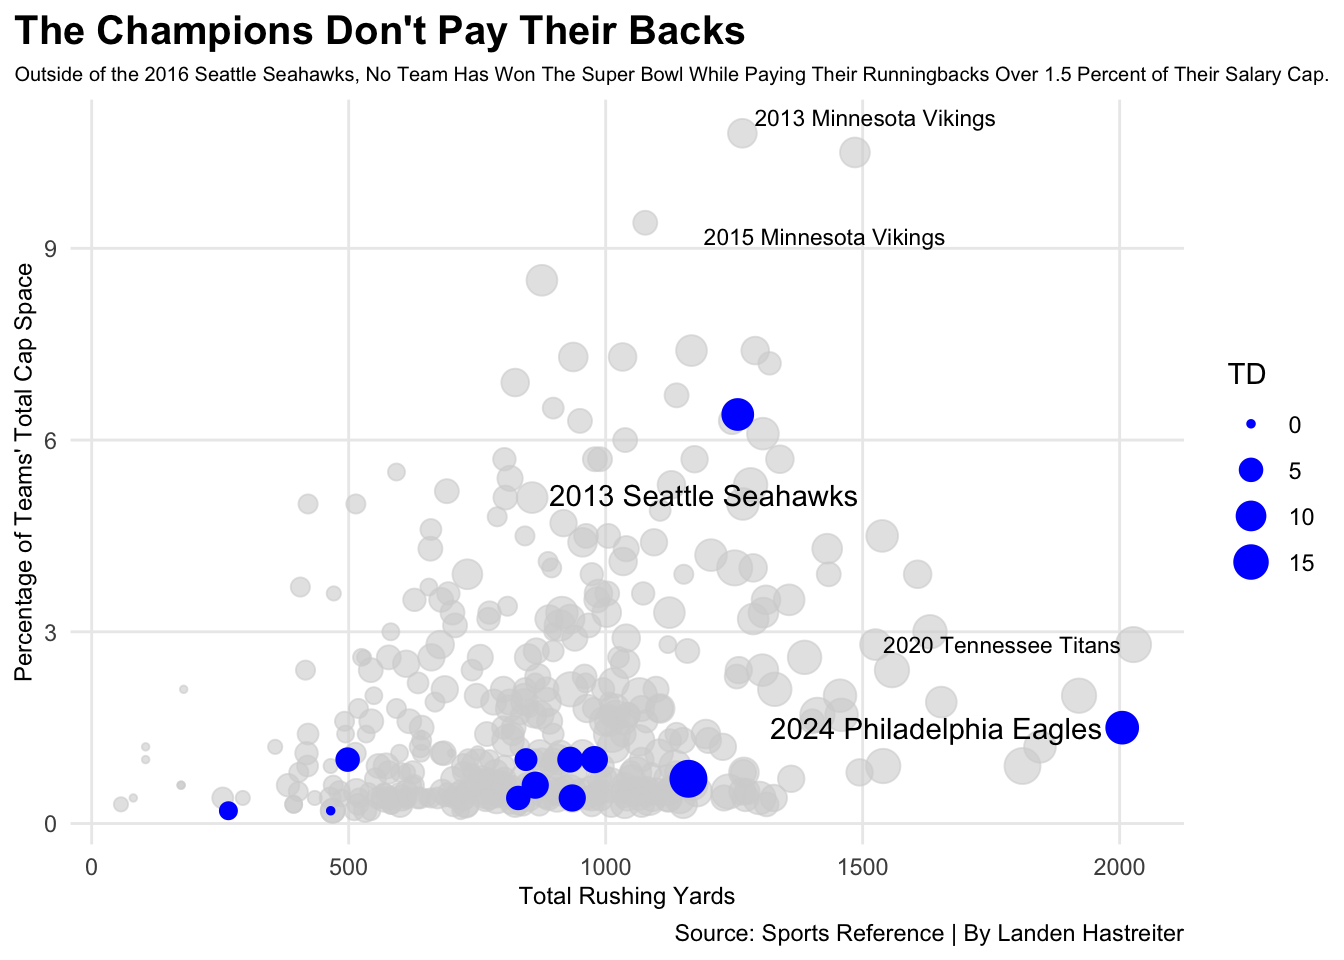
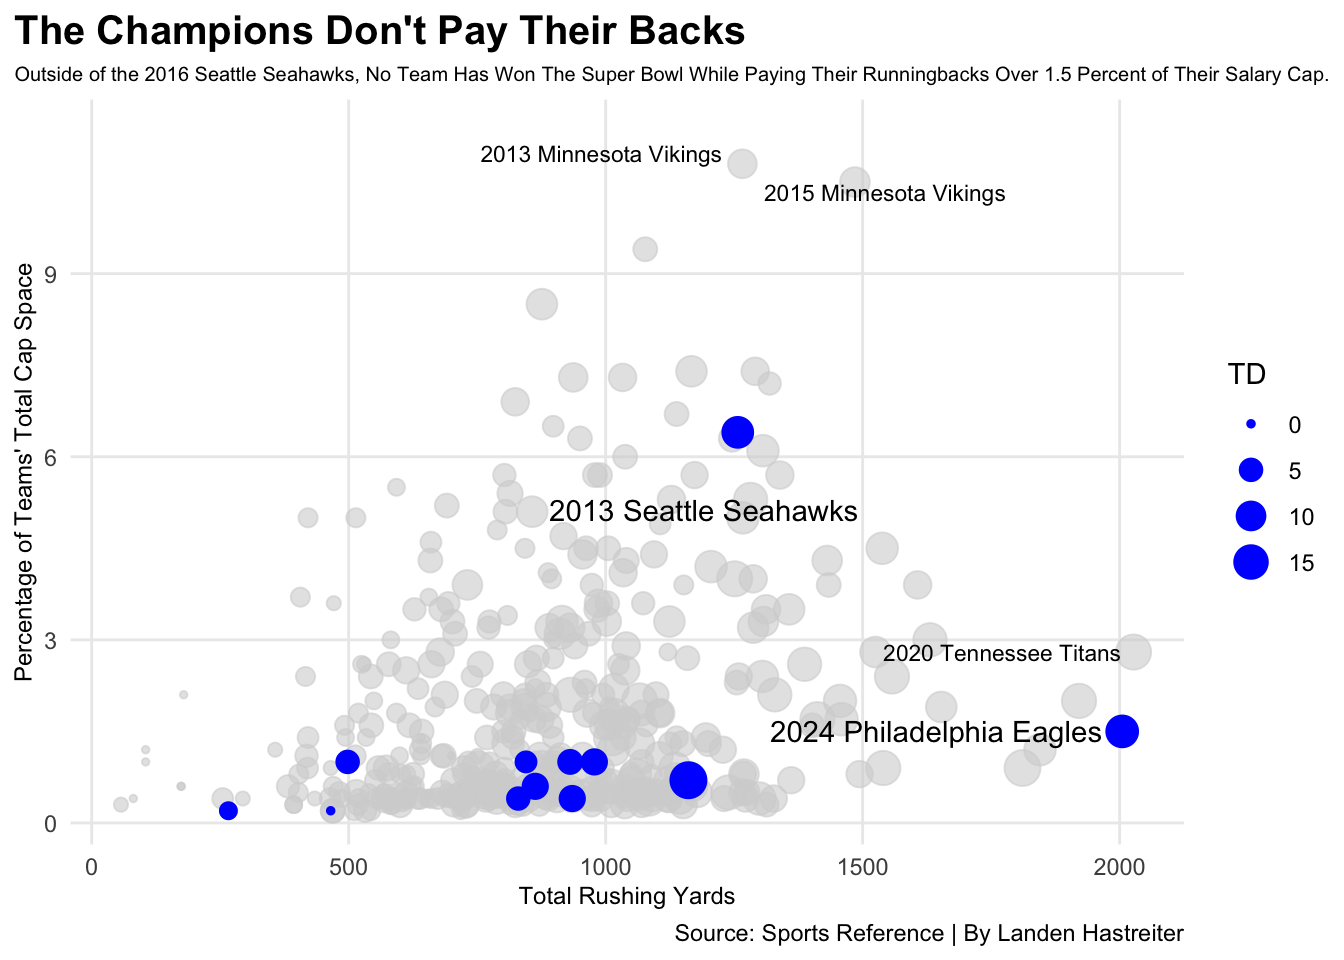
Major Assignment 2 (7)

diff --git a/posts/nfl-runningbacks/index.html b/posts/nfl-runningbacks/index.html
@@ -409,8 +409,8 @@ pre > code.sourceCode > span > a:first-child::before { text-decoration: underlin
 <span id="cb1-38"><a href="#cb1-38" aria-hidden="true" tabindex="-1"></a>  <span class="fu">geom_text_repel</span>(<span class="at">data=</span>thisyear, <span class="fu">aes</span>(<span class="at">x=</span>Yds<span class="dv">-15</span>, <span class="at">y=</span>Cap, <span class="at">label=</span>TeamYear)) <span class="sc">+</span> </span>
 <span id="cb1-39"><a href="#cb1-39" aria-hidden="true" tabindex="-1"></a>  <span class="fu">geom_text_repel</span>(<span class="at">data=</span>beast, <span class="fu">aes</span>(<span class="at">x=</span>Yds, <span class="at">y=</span><span class="fl">5.5</span>, <span class="at">label=</span>TeamYear)) <span class="sc">+</span> </span>
 <span id="cb1-40"><a href="#cb1-40" aria-hidden="true" tabindex="-1"></a>  <span class="fu">geom_text_repel</span>(<span class="at">data=</span>king, <span class="fu">aes</span>(<span class="at">x=</span>Yds, <span class="at">y=</span>Cap, <span class="at">label=</span>TeamYear), <span class="at">size=</span><span class="dv">3</span>) <span class="sc">+</span></span>
-<span id="cb1-41"><a href="#cb1-41" aria-hidden="true" tabindex="-1"></a>  <span class="fu">geom_text_repel</span>(<span class="at">data=</span>minny, <span class="fu">aes</span>(<span class="at">x=</span>Yds, <span class="at">y=</span>Cap<span class="dv">-1</span>, <span class="at">label=</span>TeamYear), <span class="at">size=</span><span class="dv">3</span>) <span class="sc">+</span></span>
-<span id="cb1-42"><a href="#cb1-42" aria-hidden="true" tabindex="-1"></a>  <span class="fu">geom_text_repel</span>(<span class="at">data=</span>vikings, <span class="fu">aes</span>(<span class="at">x=</span>Yds, <span class="at">y=</span>Cap, <span class="at">label=</span>TeamYear), <span class="at">size=</span><span class="dv">3</span>) <span class="sc">+</span></span>
+<span id="cb1-41"><a href="#cb1-41" aria-hidden="true" tabindex="-1"></a>  <span class="fu">geom_text_repel</span>(<span class="at">data=</span>minny, <span class="fu">aes</span>(<span class="at">x=</span>Yds, <span class="at">y=</span><span class="dv">10</span>, <span class="at">label=</span>TeamYear), <span class="at">size=</span><span class="dv">3</span>) <span class="sc">+</span></span>
+<span id="cb1-42"><a href="#cb1-42" aria-hidden="true" tabindex="-1"></a>  <span class="fu">geom_text_repel</span>(<span class="at">data=</span>vikings, <span class="fu">aes</span>(<span class="at">x=</span><span class="dv">1050</span>, <span class="at">y=</span><span class="fl">11.3</span>, <span class="at">label=</span>TeamYear), <span class="at">size=</span><span class="dv">3</span>) <span class="sc">+</span></span>
 <span id="cb1-43"><a href="#cb1-43" aria-hidden="true" tabindex="-1"></a>  <span class="fu">labs</span>(</span>
 <span id="cb1-44"><a href="#cb1-44" aria-hidden="true" tabindex="-1"></a>    <span class="at">x=</span><span class="st">"Total Rushing Yards"</span>, </span>
 <span id="cb1-45"><a href="#cb1-45" aria-hidden="true" tabindex="-1"></a>    <span class="at">y=</span><span class="st">"Percentage of Teams' Total Cap Space"</span>, </span>
@@ -511,23 +511,23 @@ pre > code.sourceCode > span > a:first-child::before { text-decoration: underlin
 <span id="cb2-70"><a href="#cb2-70" aria-hidden="true" tabindex="-1"></a>      <span class="at">rows =</span> TeamYear <span class="sc">==</span> <span class="st">"2024 Arizona Cardinals"</span>))</span></code></pre></div><button title="Copy to Clipboard" class="code-copy-button"><i class="bi"></i></button></div>
 </details>
 <div class="cell-output-display">
-<div id="qzdtnipsnx" style="padding-left:0px;padding-right:0px;padding-top:10px;padding-bottom:10px;overflow-x:auto;overflow-y:auto;width:auto;height:auto;">
-<style>#qzdtnipsnx table {
+<div id="eddnfwyzph" style="padding-left:0px;padding-right:0px;padding-top:10px;padding-bottom:10px;overflow-x:auto;overflow-y:auto;width:auto;height:auto;">
+<style>#eddnfwyzph table {
   font-family: system-ui, 'Segoe UI', Roboto, Helvetica, Arial, sans-serif, 'Apple Color Emoji', 'Segoe UI Emoji', 'Segoe UI Symbol', 'Noto Color Emoji';
   -webkit-font-smoothing: antialiased;
   -moz-osx-font-smoothing: grayscale;
 }
 
-#qzdtnipsnx thead, #qzdtnipsnx tbody, #qzdtnipsnx tfoot, #qzdtnipsnx tr, #qzdtnipsnx td, #qzdtnipsnx th {
+#eddnfwyzph thead, #eddnfwyzph tbody, #eddnfwyzph tfoot, #eddnfwyzph tr, #eddnfwyzph td, #eddnfwyzph th {
   border-style: none;
 }
 
-#qzdtnipsnx p {
+#eddnfwyzph p {
   margin: 0;
   padding: 0;
 }
 
-#qzdtnipsnx .gt_table {
+#eddnfwyzph .gt_table {
   display: table;
   border-collapse: collapse;
   line-height: normal;
@@ -553,12 +553,12 @@ pre > code.sourceCode > span > a:first-child::before { text-decoration: underlin
   border-left-color: #D3D3D3;
 }
 
-#qzdtnipsnx .gt_caption {
+#eddnfwyzph .gt_caption {
   padding-top: 4px;
   padding-bottom: 4px;
 }
 
-#qzdtnipsnx .gt_title {
+#eddnfwyzph .gt_title {
   color: #333333;
   font-size: 125%;
   font-weight: initial;
@@ -570,7 +570,7 @@ pre > code.sourceCode > span > a:first-child::before { text-decoration: underlin
   border-bottom-width: 0;
 }
 
-#qzdtnipsnx .gt_subtitle {
+#eddnfwyzph .gt_subtitle {
   color: #333333;
   font-size: 85%;
   font-weight: initial;
@@ -582,7 +582,7 @@ pre > code.sourceCode > span > a:first-child::before { text-decoration: underlin
   border-top-width: 0;
 }
 
-#qzdtnipsnx .gt_heading {
+#eddnfwyzph .gt_heading {
   background-color: #FFFFFF;
   text-align: center;
   border-bottom-color: #FFFFFF;
@@ -594,13 +594,13 @@ pre > code.sourceCode > span > a:first-child::before { text-decoration: underlin
   border-right-color: #D3D3D3;
 }
 
-#qzdtnipsnx .gt_bottom_border {
+#eddnfwyzph .gt_bottom_border {
   border-bottom-style: none;
   border-bottom-width: 2px;
   border-bottom-color: #D3D3D3;
 }
 
-#qzdtnipsnx .gt_col_headings {
+#eddnfwyzph .gt_col_headings {
   border-top-style: none;
   border-top-width: 2px;
   border-top-color: #D3D3D3;
@@ -615,7 +615,7 @@ pre > code.sourceCode > span > a:first-child::before { text-decoration: underlin
   border-right-color: #D3D3D3;
 }
 
-#qzdtnipsnx .gt_col_heading {
+#eddnfwyzph .gt_col_heading {
   color: #333333;
   background-color: #FFFFFF;
   font-size: 100%;
@@ -635,7 +635,7 @@ pre > code.sourceCode > span > a:first-child::before { text-decoration: underlin
   overflow-x: hidden;
 }
 
-#qzdtnipsnx .gt_column_spanner_outer {
+#eddnfwyzph .gt_column_spanner_outer {
   color: #333333;
   background-color: #FFFFFF;
   font-size: 100%;
@@ -647,15 +647,15 @@ pre > code.sourceCode > span > a:first-child::before { text-decoration: underlin
   padding-right: 4px;
 }
 
-#qzdtnipsnx .gt_column_spanner_outer:first-child {
+#eddnfwyzph .gt_column_spanner_outer:first-child {
   padding-left: 0;
 }
 
-#qzdtnipsnx .gt_column_spanner_outer:last-child {
+#eddnfwyzph .gt_column_spanner_outer:last-child {
   padding-right: 0;
 }
 
-#qzdtnipsnx .gt_column_spanner {
+#eddnfwyzph .gt_column_spanner {
   border-bottom-style: none;
   border-bottom-width: 2px;
   border-bottom-color: #D3D3D3;
@@ -667,11 +667,11 @@ pre > code.sourceCode > span > a:first-child::before { text-decoration: underlin
   width: 100%;
 }
 
-#qzdtnipsnx .gt_spanner_row {
+#eddnfwyzph .gt_spanner_row {
   border-bottom-style: hidden;
 }
 
-#qzdtnipsnx .gt_group_heading {
+#eddnfwyzph .gt_group_heading {
   padding-top: 8px;
   padding-bottom: 8px;
   padding-left: 5px;
@@ -697,7 +697,7 @@ pre > code.sourceCode > span > a:first-child::before { text-decoration: underlin
   text-align: left;
 }
 
-#qzdtnipsnx .gt_empty_group_heading {
+#eddnfwyzph .gt_empty_group_heading {
   padding: 0.5px;
   color: #333333;
   background-color: #FFFFFF;
@@ -712,15 +712,15 @@ pre > code.sourceCode > span > a:first-child::before { text-decoration: underlin
   vertical-align: middle;
 }
 
-#qzdtnipsnx .gt_from_md > :first-child {
+#eddnfwyzph .gt_from_md > :first-child {
   margin-top: 0;
 }
 
-#qzdtnipsnx .gt_from_md > :last-child {
+#eddnfwyzph .gt_from_md > :last-child {
   margin-bottom: 0;
 }
 
-#qzdtnipsnx .gt_row {
+#eddnfwyzph .gt_row {
   padding-top: 8px;
   padding-bottom: 8px;
   padding-left: 5px;
@@ -739,7 +739,7 @@ pre > code.sourceCode > span > a:first-child::before { text-decoration: underlin
   overflow-x: hidden;
 }
 
-#qzdtnipsnx .gt_stub {
+#eddnfwyzph .gt_stub {
   color: #333333;
   background-color: #FFFFFF;
   font-size: 100%;
@@ -752,7 +752,7 @@ pre > code.sourceCode > span > a:first-child::before { text-decoration: underlin
   padding-right: 5px;
 }
 
-#qzdtnipsnx .gt_stub_row_group {
+#eddnfwyzph .gt_stub_row_group {
   color: #333333;
   background-color: #FFFFFF;
   font-size: 100%;
@@ -766,15 +766,15 @@ pre > code.sourceCode > span > a:first-child::before { text-decoration: underlin
   vertical-align: top;
 }
 
-#qzdtnipsnx .gt_row_group_first td {
+#eddnfwyzph .gt_row_group_first td {
   border-top-width: 2px;
 }
 
-#qzdtnipsnx .gt_row_group_first th {
+#eddnfwyzph .gt_row_group_first th {
   border-top-width: 2px;
 }
 
-#qzdtnipsnx .gt_summary_row {
+#eddnfwyzph .gt_summary_row {
   color: #333333;
   background-color: #FFFFFF;
   text-transform: inherit;
@@ -784,16 +784,16 @@ pre > code.sourceCode > span > a:first-child::before { text-decoration: underlin
   padding-right: 5px;
 }
 
-#qzdtnipsnx .gt_first_summary_row {
+#eddnfwyzph .gt_first_summary_row {
   border-top-style: none;
   border-top-color: #D3D3D3;
 }
 
-#qzdtnipsnx .gt_first_summary_row.thick {
+#eddnfwyzph .gt_first_summary_row.thick {
   border-top-width: 2px;
 }
 
-#qzdtnipsnx .gt_last_summary_row {
+#eddnfwyzph .gt_last_summary_row {
   padding-top: 8px;
   padding-bottom: 8px;
   padding-left: 5px;
@@ -803,7 +803,7 @@ pre > code.sourceCode > span > a:first-child::before { text-decoration: underlin
   border-bottom-color: #D3D3D3;
 }
 
-#qzdtnipsnx .gt_grand_summary_row {
+#eddnfwyzph .gt_grand_summary_row {
   color: #333333;
   background-color: #FFFFFF;
   text-transform: inherit;
@@ -813,7 +813,7 @@ pre > code.sourceCode > span > a:first-child::before { text-decoration: underlin
   padding-right: 5px;
 }
 
-#qzdtnipsnx .gt_first_grand_summary_row {
+#eddnfwyzph .gt_first_grand_summary_row {
   padding-top: 8px;
   padding-bottom: 8px;
   padding-left: 5px;
@@ -823,7 +823,7 @@ pre > code.sourceCode > span > a:first-child::before { text-decoration: underlin
   border-top-color: #D3D3D3;
 }
 
-#qzdtnipsnx .gt_last_grand_summary_row_top {
+#eddnfwyzph .gt_last_grand_summary_row_top {
   padding-top: 8px;
   padding-bottom: 8px;
   padding-left: 5px;
@@ -833,11 +833,11 @@ pre > code.sourceCode > span > a:first-child::before { text-decoration: underlin
   border-bottom-color: #D3D3D3;
 }
 
-#qzdtnipsnx .gt_striped {
+#eddnfwyzph .gt_striped {
   background-color: rgba(128, 128, 128, 0.05);
 }
 
-#qzdtnipsnx .gt_table_body {
+#eddnfwyzph .gt_table_body {
   border-top-style: none;
   border-top-width: 2px;
   border-top-color: #D3D3D3;
@@ -846,7 +846,7 @@ pre > code.sourceCode > span > a:first-child::before { text-decoration: underlin
   border-bottom-color: #D3D3D3;
 }
 
-#qzdtnipsnx .gt_footnotes {
+#eddnfwyzph .gt_footnotes {
   color: #333333;
   background-color: #FFFFFF;
   border-bottom-style: none;
@@ -860,7 +860,7 @@ pre > code.sourceCode > span > a:first-child::before { text-decoration: underlin
   border-right-color: #D3D3D3;
 }
 
-#qzdtnipsnx .gt_footnote {
+#eddnfwyzph .gt_footnote {
   margin: 0px;
   font-size: 90%;
   padding-top: 4px;
@@ -869,7 +869,7 @@ pre > code.sourceCode > span > a:first-child::before { text-decoration: underlin
   padding-right: 5px;
 }
 
-#qzdtnipsnx .gt_sourcenotes {
+#eddnfwyzph .gt_sourcenotes {
   color: #333333;
   background-color: #FFFFFF;
   border-bottom-style: none;
@@ -883,7 +883,7 @@ pre > code.sourceCode > span > a:first-child::before { text-decoration: underlin
   border-right-color: #D3D3D3;
 }
 
-#qzdtnipsnx .gt_sourcenote {
+#eddnfwyzph .gt_sourcenote {
   font-size: 90%;
   padding-top: 4px;
   padding-bottom: 4px;
@@ -891,72 +891,72 @@ pre > code.sourceCode > span > a:first-child::before { text-decoration: underlin
   padding-right: 5px;
 }
 
-#qzdtnipsnx .gt_left {
+#eddnfwyzph .gt_left {
   text-align: left;
 }
 
-#qzdtnipsnx .gt_center {
+#eddnfwyzph .gt_center {
   text-align: center;
 }
 
-#qzdtnipsnx .gt_right {
+#eddnfwyzph .gt_right {
   text-align: right;
   font-variant-numeric: tabular-nums;
 }
 
-#qzdtnipsnx .gt_font_normal {
+#eddnfwyzph .gt_font_normal {
   font-weight: normal;
 }
 
-#qzdtnipsnx .gt_font_bold {
+#eddnfwyzph .gt_font_bold {
   font-weight: bold;
 }
 
-#qzdtnipsnx .gt_font_italic {
+#eddnfwyzph .gt_font_italic {
   font-style: italic;
 }
 
-#qzdtnipsnx .gt_super {
+#eddnfwyzph .gt_super {
   font-size: 65%;
 }
 
-#qzdtnipsnx .gt_footnote_marks {
+#eddnfwyzph .gt_footnote_marks {
   font-size: 75%;
   vertical-align: 0.4em;
   position: initial;
 }
 
-#qzdtnipsnx .gt_asterisk {
+#eddnfwyzph .gt_asterisk {
   font-size: 100%;
   vertical-align: 0;
 }
 
-#qzdtnipsnx .gt_indent_1 {
+#eddnfwyzph .gt_indent_1 {
   text-indent: 5px;
 }
 
-#qzdtnipsnx .gt_indent_2 {
+#eddnfwyzph .gt_indent_2 {
   text-indent: 10px;
 }
 
-#qzdtnipsnx .gt_indent_3 {
+#eddnfwyzph .gt_indent_3 {
   text-indent: 15px;
 }
 
-#qzdtnipsnx .gt_indent_4 {
+#eddnfwyzph .gt_indent_4 {
   text-indent: 20px;
 }
 
-#qzdtnipsnx .gt_indent_5 {
+#eddnfwyzph .gt_indent_5 {
   text-indent: 25px;
 }
 
-#qzdtnipsnx .katex-display {
+#eddnfwyzph .katex-display {
   display: inline-flex !important;
   margin-bottom: 0.75em !important;
 }
 
-#qzdtnipsnx div.Reactable > div.rt-table > div.rt-thead > div.rt-tr.rt-tr-group-header > div.rt-th-group:after {
+#eddnfwyzph div.Reactable > div.rt-table > div.rt-thead > div.rt-tr.rt-tr-group-header > div.rt-th-group:after {
   height: 0px !important;
 }
 </style>

diff --git a/index.html b/index.html
@@ -377,7 +377,7 @@ window.Quarto = {
 
 <div class="quarto-listing quarto-listing-container-default" id="listing-listing">
 <div class="list quarto-listing-default">
-<div class="quarto-post image-right" data-index="0" data-categories="bmZsJTJDcnVubmluZyUyMGJhY2slMkNmb290YmFsbA==" data-listing-date-sort="1764828000000" data-listing-file-modified-sort="1764915443545" data-listing-date-modified-sort="NaN" data-listing-reading-time-sort="13" data-listing-word-count-sort="2548">
+<div class="quarto-post image-right" data-index="0" data-categories="bmZsJTJDcnVubmluZyUyMGJhY2slMkNmb290YmFsbA==" data-listing-date-sort="1764828000000" data-listing-file-modified-sort="1764915885991" data-listing-date-modified-sort="NaN" data-listing-reading-time-sort="13" data-listing-word-count-sort="2548">
 <div class="thumbnail"><a href="./posts/nfl-runningbacks/index.html" class="no-external">
 
 <img loading="lazy" src="./posts/nfl-runningbacks/image.png" class="thumbnail-image">
